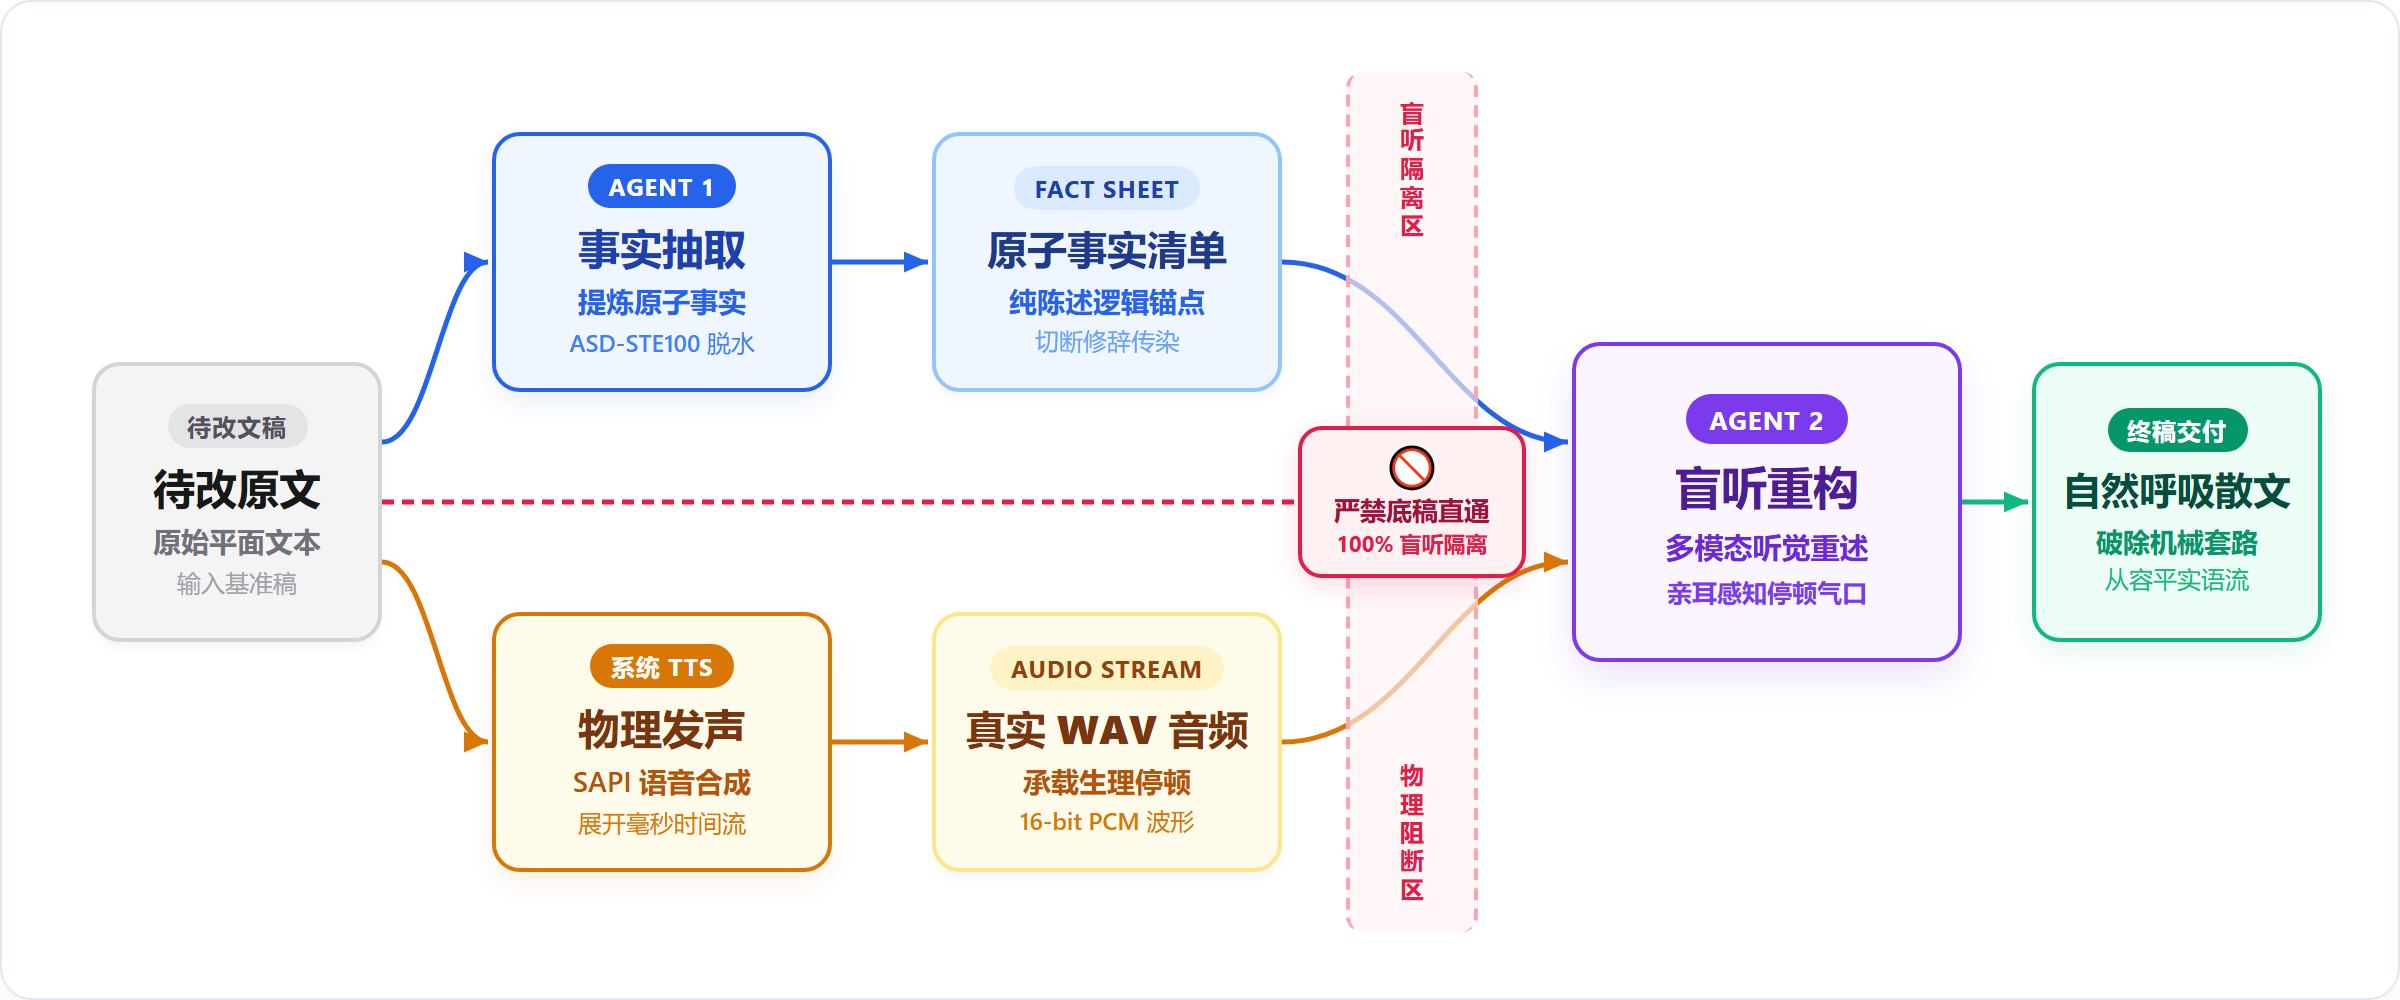
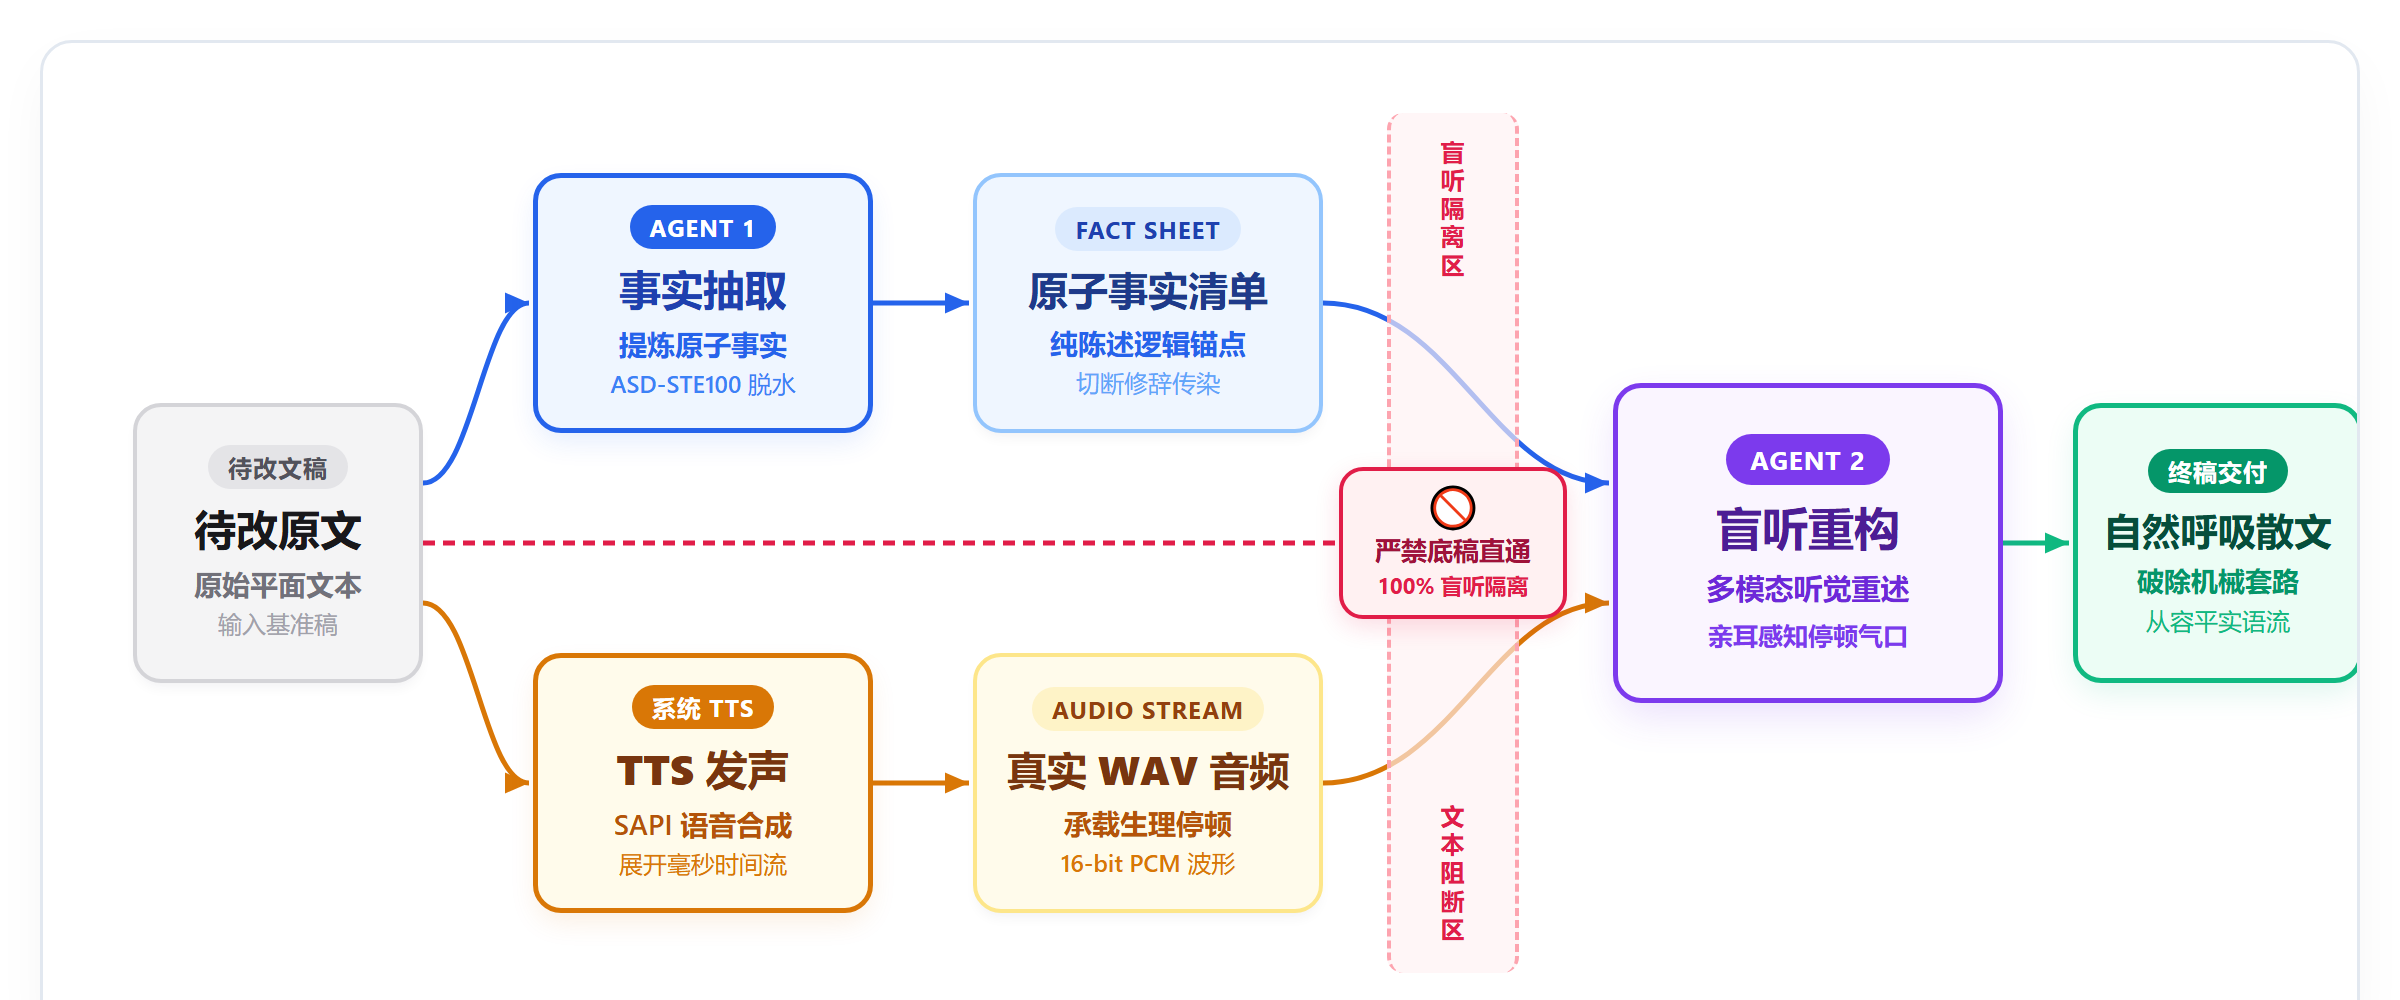
Site updated: 2026-10-31 19:13:08

diff --git a/2026/10/31/qu-ai-wei-zhi-wo-jian/index.html b/2026/10/31/qu-ai-wei-zhi-wo-jian/index.html
@@ -341,12 +341,12 @@
 <p>就像歌手对现阶段 AI 音乐的诟病之一，就是 AI 唱起歌来，不换气。</p>
 <h2 id="把文字拉进声音里"><a href="#把文字拉进声音里" class="headerlink" title="把文字拉进声音里"></a>把文字拉进声音里</h2><p>顺着这个思路，我自制了去 AI 味 Skill Qikou（气口），把“用嘴写作”的直觉落实为“先读后听”的工作流。</p>
 <p>引入了 TTS 用以音频生成，再利用上 Gemini 模型的多模态能力。</p>
-<p><img src="/2026/10/31/qu-ai-wei-zhi-wo-jian/blog-261031-002.png" alt="Qikou 双 Agent 物理发声与盲听隔离架构"></p>
+<p><img src="/2026/10/31/qu-ai-wei-zhi-wo-jian/blog-261031-002.png" alt="Qikou 双 Agent TTS 发声与盲听隔离架构"></p>
 <p>Agent 1 专门负责拆解文本中的关键信息。</p>
 <p>这一步的规则，源于<a target="_blank" rel="noopener" href="https://x.com/karpathy/status/2105819303471976479">安德烈·卡帕西（Andrej Karpathy）</a>提及的一套航空工程标准——简明技术英语规范（ASD-STE100）。</p>
 <p>我借用了最核心的原子化陈述约束：一句话只陈述一个独立事实，保留确切数字、参数、实体、专有名词与逻辑因果链；彻底剥离所有主观修饰词、文学比喻和套路过渡词，全程严禁随意轮换同义词。最终交付给下游的，是一份说明书般的原子事实清单。</p>
 <p>本地脚本通过系统级 TTS 接口，将原始文本合成 16-bit PCM 格式的真实音频文件（<code>.wav</code>），之后交付给 Agent 2。</p>
-<p>Agent 2 处于严格的物理隔离中，上下文中看不到任何原始文本。它的输入只有两样：本地调入的音频文件，以及 Agent 1 整理出的原子事实清单。</p>
+<p>Agent 2 处于严格的盲听隔离中，上下文中看不到任何原始文本。它的输入只有两样：本地调入的音频文件，以及 Agent 1 整理出的原子事实清单。</p>
 <p>除了音频转写之外，提示词部分还参考了 <a target="_blank" rel="noopener" href="https://github.com/larashero3-dotcom/lieflat-less-ai-tone">lieflat-less-ai-tone</a> 这个 Skill。要求句子遵循口语交谈的逻辑，正面给出结论，剔除各类翻案预设。拿掉破折号与各种提示性冒号，完全根据换气节拍安放逗号。</p>
 <p>相比其他去 AI 味 Skill，负面清单已经相当精简。</p>
 <p>我尝试去找一下理论作证，但 Agent 表示没有什么论文用过这个思路。</p>
